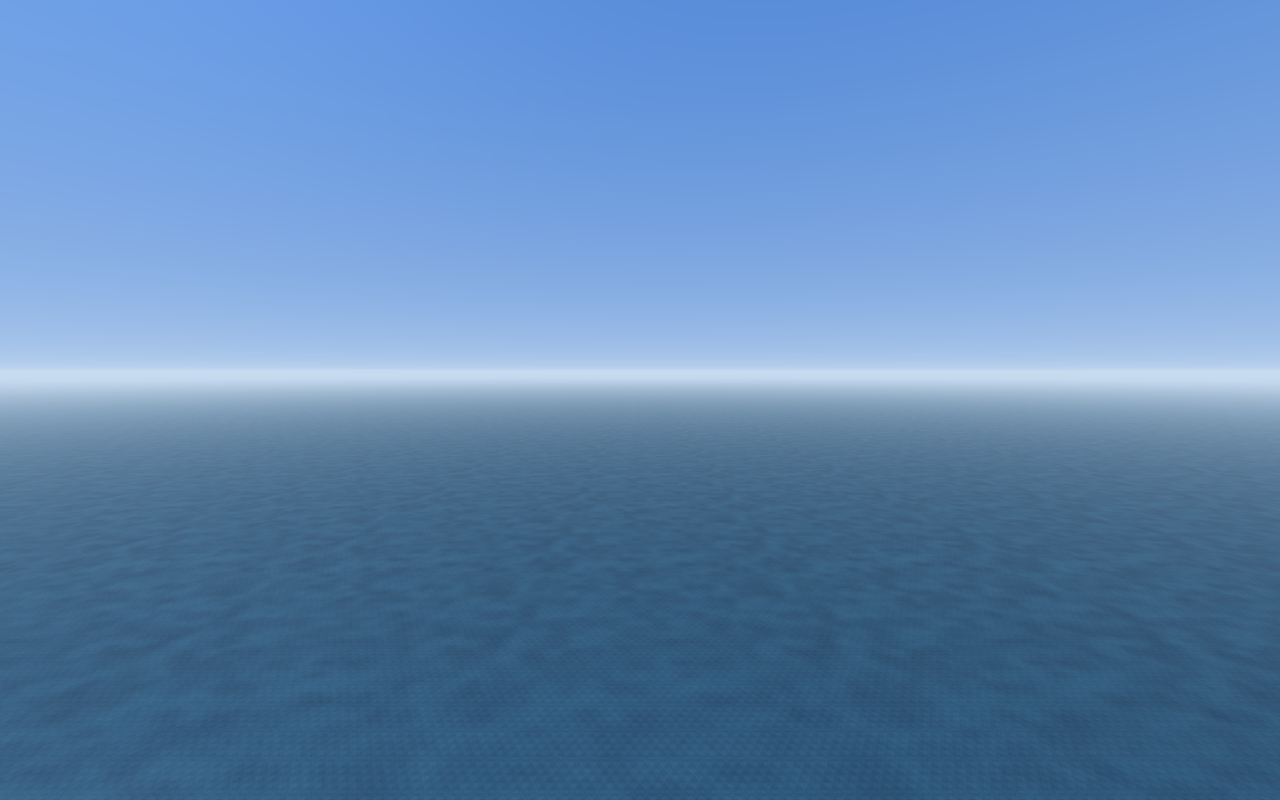
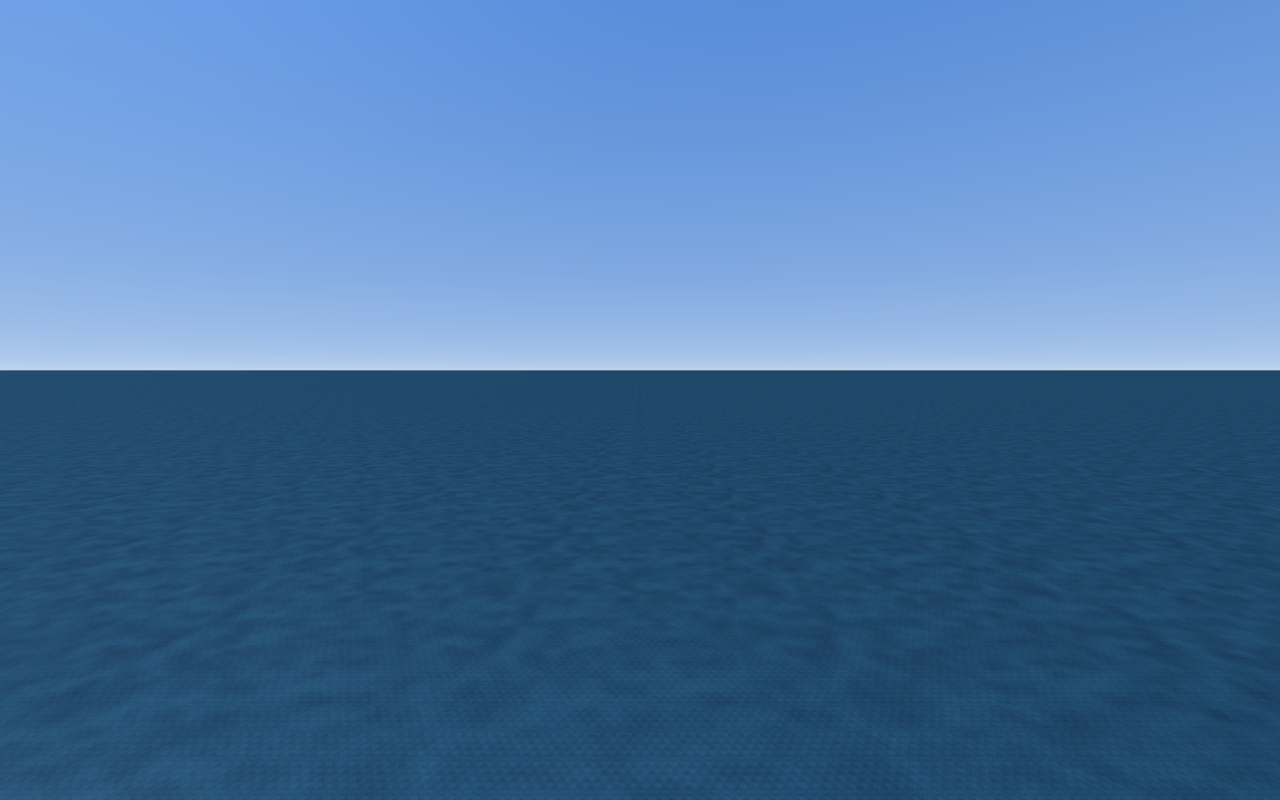
Docs: no-haze horizon screenshot

Changed region(s): [[0.0, 0.4375, 1.0, 0.8438]]

diff --git a/README.md b/README.md
@@ -192,11 +192,9 @@ brightness on the bedrock, a deep-to-light colour drift on the
 ocean -- so the far field varies the way a real surface does
 toward the horizon. The sea wears the same hexagons (its shade
 factor rides in the pattern texture's alpha, sampled at twice the
-bedrock tile). Distance haze on the planes is an exponential fade
-that never quite completes -- a fade that reaches 100% at a finite
-distance draws its own equal-distance arc on the plane, which
-reads as a curved white horizon floating in front of the real,
-straight one.
+bedrock tile). There is no distance haze anywhere: haze is a
+hack for masking the limits of finite renderers, and this one is
+infinity-first -- patterns run crisp to the true horizon.
 
 Blocks are one sandy colour all around (times the per-cell tint),
 lit by a hemisphere ambient (sky blue above, warm ground bounce
@@ -204,8 +202,8 @@ below), the warm sun, and a per-vertex ambient occlusion term
 counted from the neighbouring blocks crowding each face corner.
 The sun itself is a hexagon in the sky -- flat top and bottom,
 points east and west. Below the horizon the sky is deep ocean
-colour; below the bedrock the whole sky and haze turn nether red,
-like molten rock. A flat minimum ambient term keeps the darkest
+colour; below the bedrock the sky turns nether red, like molten
+rock. A flat minimum ambient term keeps the darkest
 block vertices readable. (The tint's first version used a structured hash at
 +/-10%: its low bits mirrored along the patch's symmetry axes and
 printed stripes and quadrant seams onto the terrain. The current
